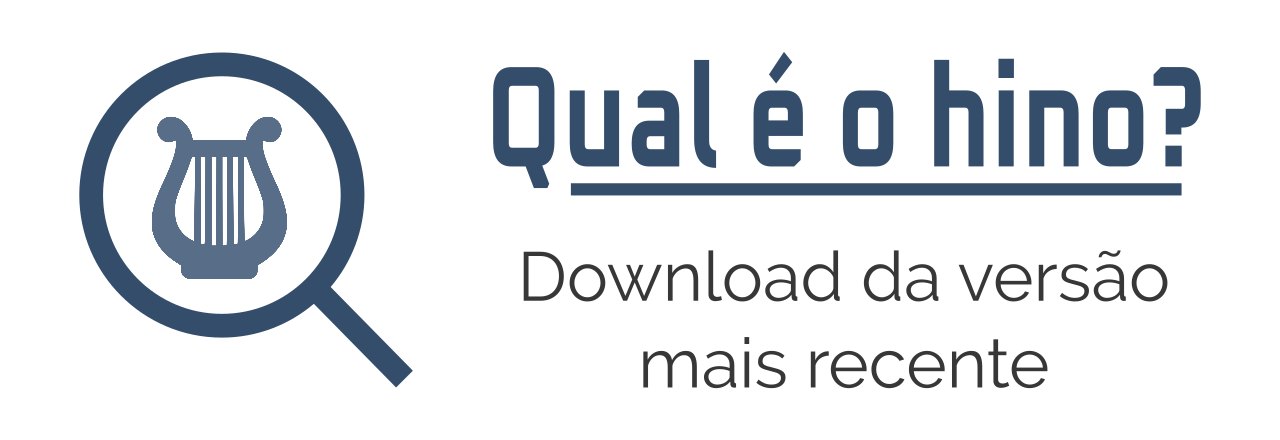
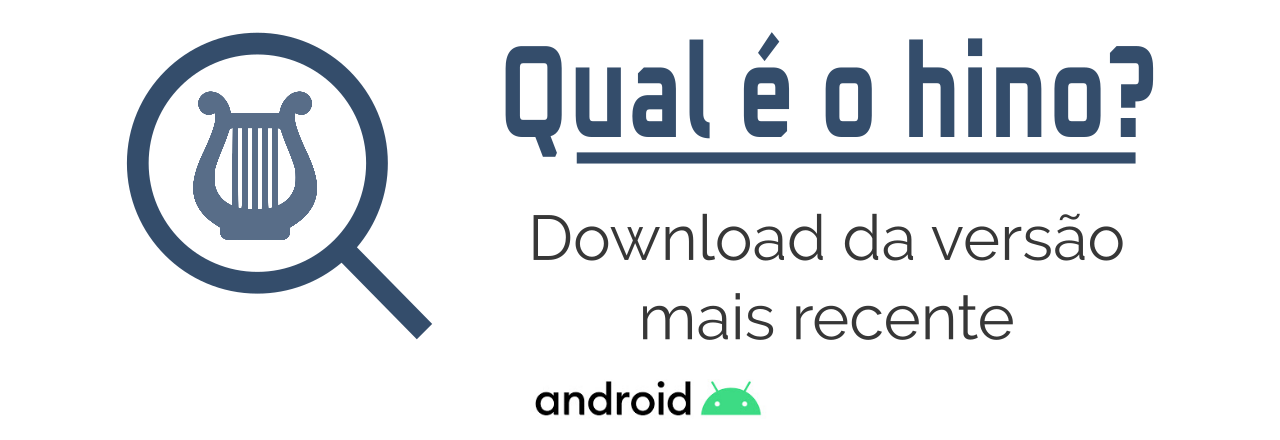
tags de compartilhamento

Changed region(s): [[0.375, 0.0886, 0.9375, 0.4432], [0.4062, 0.4727, 0.9375, 0.9455], [0.0625, 0.0591, 0.3438, 0.8864]]

diff --git a/docs/index.html b/docs/index.html
@@ -6,10 +6,58 @@
     content="width=device-width, initial-scale=1, shrink-to-fit=no"
   />
   <head>
-    <title>Qual é o hino?</title>
+    <!-- Primary Meta Tags -->
+    <title>Qual é o hino? - Pesquisador de Hinos</title>
+    <meta name="title" content="Qual é o hino? - Pesquisador de Hinos" />
     <meta
-      content="Explicativo e centro de atualizações do app Pesquisador de Hinos"
+      name="description"
+      content="Sabe quando você lembra um pedaço do hino mas não sabe o nome dele? Agora ficou mais fácil. Encontre facilmente os hinos da sua coletânea, seja por nome, número ou parte da letra. "
     />
+
+    <!-- Open Graph / Facebook -->
+    <meta property="og:type" content="website" />
+    <meta
+      property="og:url"
+      content="https://evaristocosta.github.io/pesquisadorDeHinos/"
+    />
+    <meta property="og:title" content="Qual é o hino? - Pesquisador de Hinos" />
+    <meta
+      property="og:description"
+      content="Sabe quando você lembra um pedaço do hino mas não sabe o nome dele? Agora ficou mais fácil. Encontre facilmente os hinos da sua coletânea, seja por nome, número ou parte da letra. "
+    />
+    <meta
+      property="og:image"
+      content="https://evaristocosta.github.io/pesquisadorDeHinos/metatag.png"
+    />
+
+    <!-- Twitter -->
+    <meta property="twitter:card" content="summary_large_image" />
+    <meta
+      property="twitter:url"
+      content="https://evaristocosta.github.io/pesquisadorDeHinos/"
+    />
+    <meta
+      property="twitter:title"
+      content="Qual é o hino? - Pesquisador de Hinos"
+    />
+    <meta
+      property="twitter:description"
+      content="Sabe quando você lembra um pedaço do hino mas não sabe o nome dele? Agora ficou mais fácil. Encontre facilmente os hinos da sua coletânea, seja por nome, número ou parte da letra. "
+    />
+    <meta
+      property="twitter:image"
+      content="https://evaristocosta.github.io/pesquisadorDeHinos/metatag.png"
+    />
+
+    <!-- Schema.org -->
+    <script type="application/ld+json">
+      {
+        "@context": "https://schema.org/",
+        "@type": "WebSite",
+        "name": "Pesquisador de Hinos",
+        "url": "https://evaristocosta.github.io/pesquisadorDeHinos/"
+      }
+    </script>
 
     <!-- Bootstrap -->
     <link
@@ -125,8 +173,10 @@
         objetivo facilitar a pesquisa em hinários evangélicos específicos. Surge
         da necessidade de agilidade para pesquisa de canções disponíveis nos
         diversos hinários utilizados por cantores e instrumentistas em igrejas.
-        Esta primeira versão do aplicativo visa, portanto, servir somente como
-        ferramenta de pesquisa rápida.
+      </p>
+      <p>
+        Esta primeira versão está disponível somente para plataforma
+        <strong>Android</strong>.
       </p>
       <p>
         <strong>Download da versão mais recente:</strong>
